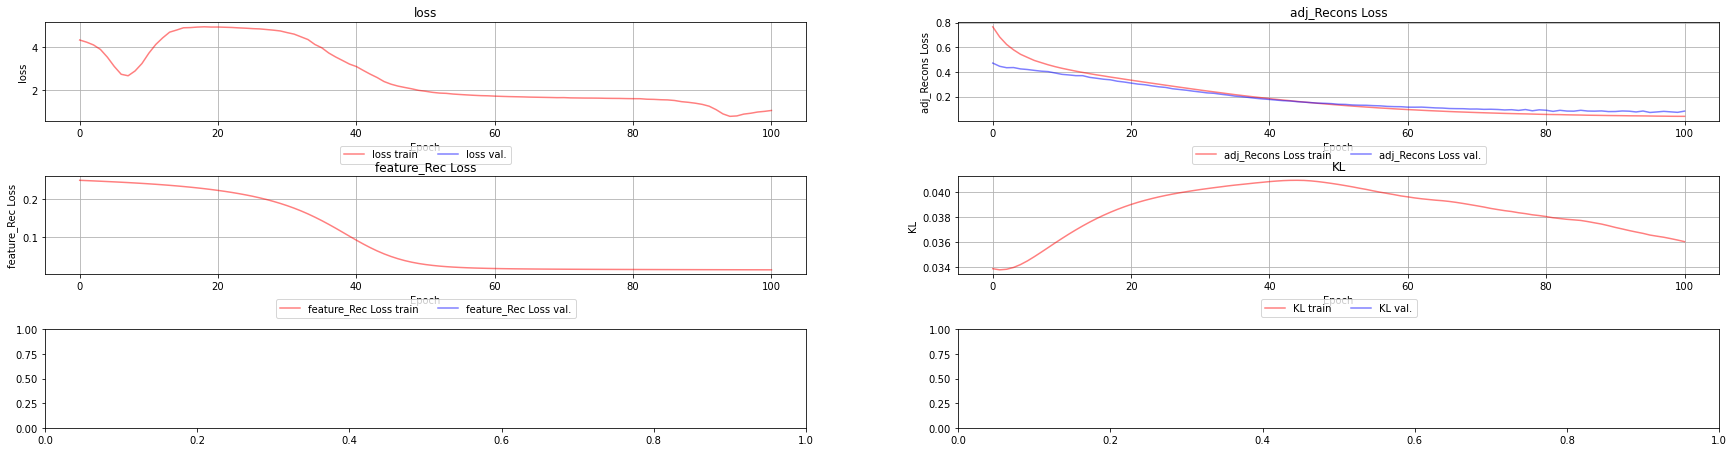
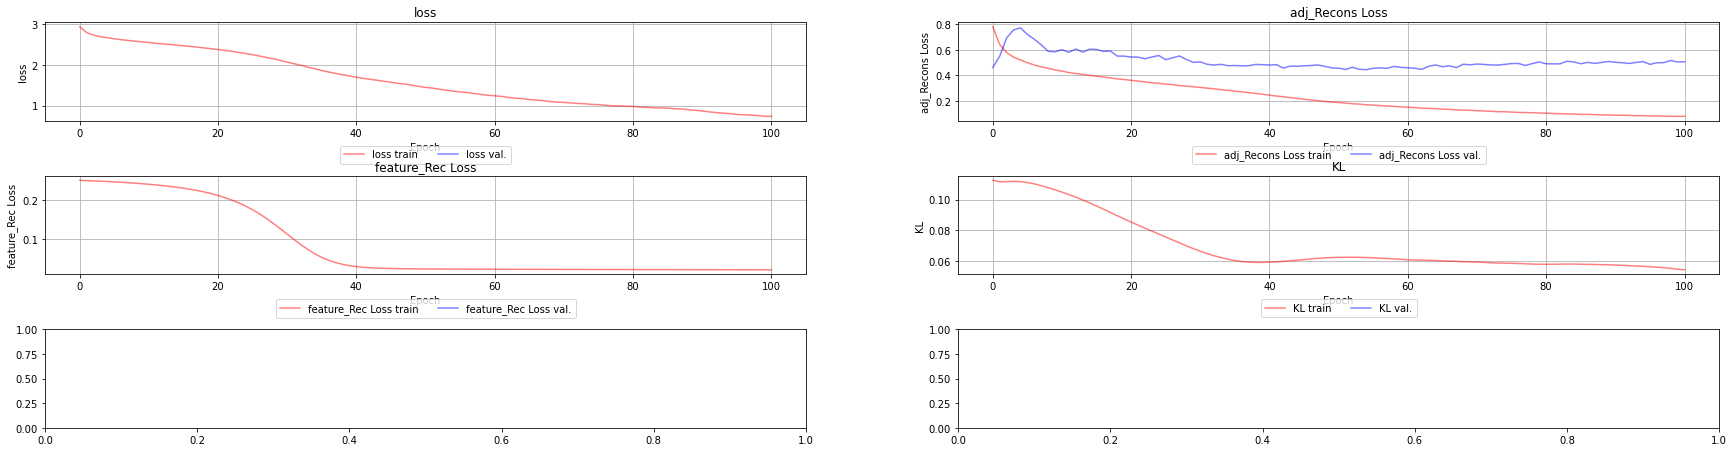
add classifier for homo

diff --git a/RuleLearning.py b/RuleLearning.py
@@ -38,7 +38,7 @@ parser = argparse.ArgumentParser(description='VGAE Framework')
 parser.add_argument('-e', dest="epoch_number", type=int, default=101, help="Number of Epochs")
 parser.add_argument('-v', dest="Vis_step", type=int, default=20, help="model learning rate")
 parser.add_argument('-lr', dest="lr", type=float, default=0.001, help="number of epoch at which the error-plot is visualized and updated")
-parser.add_argument('-dataset', dest="dataset", default="IMDB-PyG",
+parser.add_argument('-dataset', dest="dataset", default="acm",
                     help="possible choices are: cora, citeseer, pubmed, IMDB, DBLP, ACM")
 parser.add_argument('-hemogenize', dest="hemogenize", default=False, help="either withhold the layers (edges types) during training or not")
 parser.add_argument('-NofCom', dest="num_of_comunities",type=int, default=64,
@@ -205,9 +205,9 @@ def OptimizerVAE(pred, labels, std_z, mean_z, num_nodes, pos_wight, norm, x_pred
     
 
     acc = (torch.sigmoid(pred).round() == labels).sum() / float(pred.shape[0] * pred.shape[1]*pred.shape[2]) # accuracy on the train data
+    motif_loss = 0
     print(motif_loss)
     return kl_loss, reconstruction_loss, feat_loss , acc, val_recons_loss , motif_loss, label_loss
-
 
 # ============================================================
 # The main procedure
@@ -224,7 +224,7 @@ else:
         features_with_labels = np.array(features.todense()[:map_dic['node_type_to_index_map']['movie'][1]])
         _, important_feat_ids = reduce_node_features(features_with_labels, node_label, random_seed = 0)
     else:
-        _, important_feat_ids = reduce_node_features(np.array(features), node_label, 0)
+        _, important_feat_ids = reduce_node_features(np.array(features.todense()), node_label, 0)
 # shuffling the data, and selecting a subset of it; subgraph_size is used to do the ecperimnet on the samller dataset to insclease development speed
 if subgraph_size == -1:
     subgraph_size = original_adj.shape[-1]
@@ -380,35 +380,38 @@ for epoch in range(epoch_number):
     
     reconstructed_adjacency = torch.sigmoid(reconstructed_adj_logit)
     
-    edge_encoding_to_node_types = {v: k for k, v in map_dic['edge_type_encoding'].items()}
-    filtered_reconstruct_adj = []
-    
-    for idx, adj_matrix in enumerate(reconstructed_adjacency):
-        node_types = edge_encoding_to_node_types[idx + 1]  
-        src_type, dst_type = node_types
 
-        src_start, src_end = map_dic['node_type_to_index_map'][src_type]
-        dst_start, dst_end = map_dic['node_type_to_index_map'][dst_type]
-
-
-        filtered_matrix = adj_matrix[src_start:src_end, dst_start:dst_end]
-
-
-        filtered_reconstruct_adj.append(filtered_matrix)
-    
-    filtered_reconstruct_adj_tensors = [torch.tensor(matrix).to('cuda:0') for matrix in filtered_reconstruct_adj]
-    
-    
-    for filtered_matrix in filtered_reconstruct_adj_tensors:
-        filtered_shape = filtered_matrix.shape 
-    
-        for key, matrix in matrices.items():
-            if matrix.shape == filtered_shape:
-                matrices[key] = filtered_matrix
-                break
-            
 
     if dataset == "IMDB-PyG":
+        edge_encoding_to_node_types = {v: k for k, v in map_dic['edge_type_encoding'].items()}
+        filtered_reconstruct_adj = []
+        
+        for idx, adj_matrix in enumerate(reconstructed_adjacency):
+            node_types = edge_encoding_to_node_types[idx + 1]  
+            src_type, dst_type = node_types
+
+            src_start, src_end = map_dic['node_type_to_index_map'][src_type]
+            dst_start, dst_end = map_dic['node_type_to_index_map'][dst_type]
+
+
+            filtered_matrix = adj_matrix[src_start:src_end, dst_start:dst_end]
+
+
+            filtered_reconstruct_adj.append(filtered_matrix)
+        
+        filtered_reconstruct_adj_tensors = [torch.tensor(matrix).to('cuda:0') for matrix in filtered_reconstruct_adj]
+        
+        
+        for filtered_matrix in filtered_reconstruct_adj_tensors:
+            filtered_shape = filtered_matrix.shape 
+        
+            for key, matrix in matrices.items():
+                if matrix.shape == filtered_shape:
+                    matrices[key] = filtered_matrix
+                    break
+                
+        
+        
         movie_reconstructed_x = reconstructed_x[:map_dic['node_type_to_index_map']['movie'][1]]        
         reconstructed_x_important_feats = movie_reconstructed_x[:,important_feat_ids]
         for i in range(1, len(important_feat_ids)+1):
@@ -418,11 +421,24 @@ for epoch in range(epoch_number):
             entities['movies'][feature_name] = tensor_to_assign
         
         # only use labels of the movies
+       
         reconstructed_labels = reconstructed_labels[:map_dic['node_type_to_index_map']['movie'][1]]
     
         entities['movies']['label'] = torch.argmax(reconstructed_labels, dim=1)
     
-    
+    else:
+        
+        x_recon_important_feats = reconstructed_x[:,important_feat_ids]
+
+        for i in range(1, len(important_feat_ids)+1):
+            feature_name = f'feature_{i}'
+        
+            tensor_to_assign = ((x_recon_important_feats[:, i-1]) > 0.5).int().cpu().numpy()
+            entities['nodes_table'][feature_name] = tensor_to_assign
+        
+        predicted_labels = torch.argmax(reconstructed_labels, dim=1)
+        entities['nodes_table']['label'] = predicted_labels.cpu().detach().numpy()
+        matrices['edges_table'] = reconstructed_adjacency[0].to('cuda:0')
         
             
     predicted = iteration_function(rules, multiples, states, functors, variables, nodes, masks, base_indices, mask_indices, sort_indices, stack_indices, values, keys, indices, matrices, entities)
@@ -432,7 +448,7 @@ for epoch in range(epoch_number):
             
     # compute loss and accuracy
     z_kl, adj_reconstruction_loss,feat_loss, acc, adj_val_recons_loss, motif_loss, label_loss = OptimizerVAE(reconstructed_adj_logit, adj_train , std_z, m_z, num_nodes, pos_wight, norm,reconstructed_x,features,ground_truth, predicted, reconstructed_labels, gt_labels,  ignore_edges_inx, val_edge_idx)
-    loss = adj_reconstruction_loss+ feat_loss + z_kl + motif_loss + label_loss
+    loss = adj_reconstruction_loss+ feat_loss + z_kl + torch.tensor(motif_loss )+ label_loss
 
     # record the loss; to be ploted
     pltr.add_values(epoch, [ loss.item() ,adj_reconstruction_loss.item(), feat_loss.item(), z_kl.item()], [None,adj_val_recons_loss.item(), None, None], redraw=False)  # plotter.Plotter(functions=["loss", "adj_Recons Loss","feature_Rec Loss", "KL",])

diff --git a/imdb_preprocess.py b/imdb_preprocess.py
@@ -90,8 +90,8 @@ cursor.execute("CREATE DATABASE IF NOT EXISTS %s" %(db_params['db']))
 cursor.execute("USE %s" %(db_params['db']))
 
 cursor.execute("""
-CREATE TABLE IF NOT EXISTS movies_table (
-    node_id INT PRIMARY KEY,
+CREATE TABLE IF NOT EXISTS movies (
+    movie_id INT PRIMARY KEY,
     feature_1 FLOAT,
     feature_2 FLOAT,
     feature_3 FLOAT,
@@ -104,38 +104,39 @@ CREATE TABLE IF NOT EXISTS movies_table (
 
 
 cursor.execute("""
-CREATE TABLE IF NOT EXISTS actors_table (
-    node_id INT PRIMARY KEY
+CREATE TABLE IF NOT EXISTS actors (
+    actor_id INT PRIMARY KEY
 )
 """)
 
 
 cursor.execute("""
-CREATE TABLE IF NOT EXISTS directors_table (
-    node_id INT PRIMARY KEY
+CREATE TABLE IF NOT EXISTS directors (
+    director_id INT PRIMARY KEY
 )
 """)
 
 
 cursor.execute("""
-    CREATE TABLE IF NOT EXISTS movies_directors_table (
-        source_node_id INT,
-        target_node_id INT,
-        PRIMARY KEY (source_node_id, target_node_id),
-        FOREIGN KEY (source_node_id) REFERENCES movies_table(node_id),
-        FOREIGN KEY (target_node_id) REFERENCES directors_table(node_id)
+    CREATE TABLE IF NOT EXISTS movies_directors (
+        movie_id INT,
+        director_id INT,
+        PRIMARY KEY (movie_id, director_id),
+        FOREIGN KEY (movie_id) REFERENCES movies(movie_id),
+        FOREIGN KEY (director_id) REFERENCES directors(director_id)
     )
 """)
 
 
 
+
 cursor.execute("""
-    CREATE TABLE IF NOT EXISTS movies_actors_table (
-        source_node_id INT,
-        target_node_id INT,
-        PRIMARY KEY (source_node_id, target_node_id),
-        FOREIGN KEY (source_node_id) REFERENCES movies_table(node_id),
-        FOREIGN KEY (target_node_id) REFERENCES actors_table(node_id)
+    CREATE TABLE IF NOT EXISTS movies_actors (
+        movie_id INT,
+        actor_id INT,
+        PRIMARY KEY (movie_id, actor_id),
+        FOREIGN KEY (movie_id) REFERENCES movies(movie_id),
+        FOREIGN KEY (actor_id) REFERENCES actors(actor_id)
     )
 """)
 
@@ -145,7 +146,7 @@ for i, features in enumerate(x_reduced):
     # Convert tensor values to Python floats
     feature_values = [float(val) for val in features]
     
-    cursor.execute("INSERT INTO movies_table (node_id, feature_1, feature_2, feature_3, feature_4, feature_5, label) VALUES (%s, %s, %s, %s, %s, %s, %s)",
+    cursor.execute("INSERT INTO movies (movie_id, feature_1, feature_2, feature_3, feature_4, feature_5, label) VALUES (%s, %s, %s, %s, %s, %s, %s)",
                     (i, *feature_values,float(dataa['movie']['y'][i])))
 
 print("Done adding to movies_table")
@@ -155,7 +156,7 @@ print("Done adding to movies_table")
 # Insert nodes into actors_table
 for i in range(dataa['actor']['x'].shape[0]):
 
-    cursor.execute("INSERT INTO actors_table (node_id) VALUES (%s)",(i))
+    cursor.execute("INSERT INTO actors (actor_id) VALUES (%s)",(i))
 
 print("Done adding to actors_table")
 
@@ -164,7 +165,7 @@ print("Done adding to actors_table")
 # Insert nodes into directors_table
 for i in range(dataa['director']['x'].shape[0]):
 
-    cursor.execute("INSERT INTO directors_table (node_id) VALUES (%s)",(i))
+    cursor.execute("INSERT INTO directors (director_id) VALUES (%s)",(i))
 
 print("Done adding to directors_table")
 
@@ -172,15 +173,15 @@ print("Done adding to directors_table")
 
 # Insert edges into movies_actors_table
 edge_index = dataa.edge_index_dict[('movie', 'to', 'actor')]
-for edge in edge_index:
-    cursor.execute("INSERT INTO movies_actors_table (source_node_id, target_node_id) VALUES (%s, %s)", (edge[0], edge[1]))
+for i in range(edge_index[0].shape[0]):
+    cursor.execute("INSERT INTO movies_actors (movie_id, actor_id) VALUES (%s, %s)", (edge_index[0][i].item(),edge_index[1][i].item()))
 
 print("Done adding to movies_actors_table")
 
 # Insert edges into movies_directors_table
 edge_index = dataa.edge_index_dict[('movie', 'to', 'director')]
-for edge in edge_index:
-    cursor.execute("INSERT INTO movies_directors_table (source_node_id, target_node_id) VALUES (%s, %s)", (edge[0], edge[1]))
+for i in range(edge_index[0].shape[0]):
+    cursor.execute("INSERT INTO movies_directors (movie_id, director_id) VALUES (%s, %s)",( edge_index[0][i].item(), edge_index[1][i].item()))
 
 
 print("Done adding to movie_directors_table")

diff --git a/input_data.py b/input_data.py
@@ -9,6 +9,8 @@ import math
 from  Synthatic_graph_generator import Synthetic_data
 from scipy.sparse import csr_matrix
 from torch_geometric.datasets import IMDB
+from torch_geometric.datasets import Amazon, Planetoid
+
 
 def parse_index_file(filename):
     index = []
@@ -20,6 +22,60 @@ def parse_index_file(filename):
 def load_data(dataset):
     """the method will return adjacncy matrix, node features, nodes label, edges label and circules.
       None in case the data set does not come with the information"""
+    
+    if dataset == "cora":
+        ds = Planetoid("\..", "cora")[0]
+        num_nodes = ds['y'].shape[0]
+        adjacency_matrix = np.zeros((num_nodes, num_nodes))
+
+        # Iterate over the edge index and fill in the adjacency matrix
+        edge_index = ds['edge_index']
+        for i in range(edge_index.shape[1]):
+            start_node = edge_index[0, i].item()
+            end_node = edge_index[1, i].item()
+            adjacency_matrix[start_node, end_node] = 1
+            adjacency_matrix[end_node, start_node] = 1  # For und
+        
+        features = csr_matrix(ds['x'].numpy())
+        return csr_matrix(adjacency_matrix),features, ds['y'], csr_matrix(adjacency_matrix), None, None
+ 
+    
+    if dataset == "citeseer":
+        ds = Planetoid("\..", "citeseer")[0]
+        num_nodes = ds['y'].shape[0]
+        adjacency_matrix = np.zeros((num_nodes, num_nodes))
+
+        # Iterate over the edge index and fill in the adjacency matrix
+        edge_index = ds['edge_index']
+        for i in range(edge_index.shape[1]):
+            start_node = edge_index[0, i].item()
+            end_node = edge_index[1, i].item()
+            adjacency_matrix[start_node, end_node] = 1
+            adjacency_matrix[end_node, start_node] = 1  # For und
+        
+        features = csr_matrix(ds['x'].numpy())
+        return csr_matrix(adjacency_matrix),features, ds['y'], csr_matrix(adjacency_matrix), None, None
+    
+    if dataset == "acm":
+
+        ds = torch.load("../VGAE/db/acm.pt")
+        ds['y'] =torch.tensor(ds['y'])
+        num_nodes = ds['y'].shape[0]
+        adjacency_matrix = np.zeros((num_nodes, num_nodes))
+
+        # Iterate over the edge index and fill in the adjacency matrix
+        edge_index = ds['edge_index']
+        for i in range(edge_index.shape[1]):
+            start_node = edge_index[0, i].item()
+            end_node = edge_index[1, i].item()
+            adjacency_matrix[start_node, end_node] = 1
+            adjacency_matrix[end_node, start_node] = 1  # For und
+        
+        features = csr_matrix(ds['x'].numpy())
+        return csr_matrix(adjacency_matrix),features, ds['y'], csr_matrix(adjacency_matrix), None, None
+    
+    
+    
     if dataset =="IMDB":
         return IMDb()
     if dataset =="IMDB-PyG":

diff --git a/preprocess.py b/preprocess.py
@@ -59,7 +59,7 @@ if torch.cuda.is_available():
 dataset = Planetoid("\..", "cora")
 # dataset = Amazon("\..", "photo")
 dataa = dataset[0]
-# dataa = torch.load("db/imdb.pt")
+dataa = torch.load("db/acm.pt")
 
 
 data_bi = dataa
@@ -76,7 +76,7 @@ db_params = {
     'host': 'database-1.cxcqxpvbnnwo.us-east-2.rds.amazonaws.com',
     'user': 'admin', 
     'password': 'newPassword', 
-    'db':'cora' 
+    'db':'acm' 
 }
 
 connection = connect(**db_params)

diff --git a/setup.py b/setup.py
@@ -8,7 +8,7 @@ import torch
 
 
 def setup_function(db_name):
-    db = db_name = "imdb_new"
+    db = db_name
     host_name = 'database-1.cxcqxpvbnnwo.us-east-2.rds.amazonaws.com'
     user_name = "admin"
     password_name = "newPassword"
